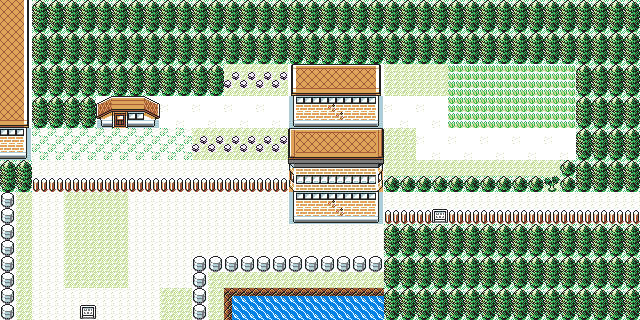
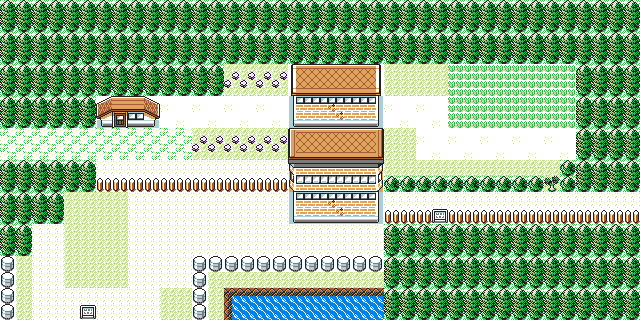
feat(maps): Route 16 West improvements

Changed region(s): [[0.0, 0.0, 0.1562, 0.8125]]

diff --git a/docs/index.html b/docs/index.html
@@ -5036,14 +5036,13 @@ const MARKERS_R16 = [
   { cat: "warp", x: 24, y: 12, name: "Porte Route 16", dx: 7, dy: 8, badge: "Porte" },
   { cat: "warp", x: 17, y: 6, name: "Porte Route 16", dx: 0, dy: 2, badge: "Porte" },
   { cat: "warp", x: 24, y: 6, name: "Porte Route 16", dx: 7, dy: 2, badge: "Porte" },
-  { cat: "warp", x: 7, y: 7, name: "Maison du Vol", dx: 2, dy: 7, badge: "Vol" },
-  { cat: "warp", x: 2, y: 8, name: "Laboratoire abandonné", dx: 7, dy: 14, badge: "Porte" }
+  { cat: "warp", x: 7, y: 7, name: "Maison du Vol", dx: 2, dy: 7, badge: "Vol" }
 ];
 /* Clairière : aucun PNJ ; maison et sortie est vers le poste
    de garde du vrai monde (portail entre la route et la Clairière). */
 const MARKERS_R16W = [
   { cat: "warp", x: 17, y: 25, name: "Maison de la Clairière", dx: 2, dy: 7, badge: "Maison" },
-  { cat: "warp", x: 33, y: 4, name: "Laboratoire abandonné", dx: 0, dy: 14, badge: "Porte" }
+  { cat: "warp", x: 30, y: 5, name: "Laboratoire abandonné", dx: 0, dy: 14, badge: "Porte" }
 ];
 /* Piste Cyclable (Route 17) : 10 Motards/Loubards jusqu'à mi-piste ;
    4 objets cachés (joenote : deux Max Elixir). Aucun warp. */
@@ -5090,8 +5089,7 @@ const MARKERS_R16GATE2F = [
 /* Laboratoire abandonné : sous-monde « Clairière » entre Route 16 et
    Route 2 (connexion spéciale du hack) ; aquarium, coffre et lettres (signes). */
 const MARKERS_R16WGATE = [
-  { cat: "warp", x: 0, y: 14, name: "Clairière", dx: 33, dy: 4, badge: "Clairière" },
-  { cat: "warp", x: 7, y: 14, name: "Route 16", dx: 2, dy: 8, badge: "Sortie" }
+  { cat: "warp", x: 2, y: 17, name: "Clairière", dx: 30, dy: 5, badge: "Clairière" }
 ];
 /* Maison de la Clairière : livre de comptes (mobilier, sans marqueur) ;
    Max Elixir caché en coin. */
